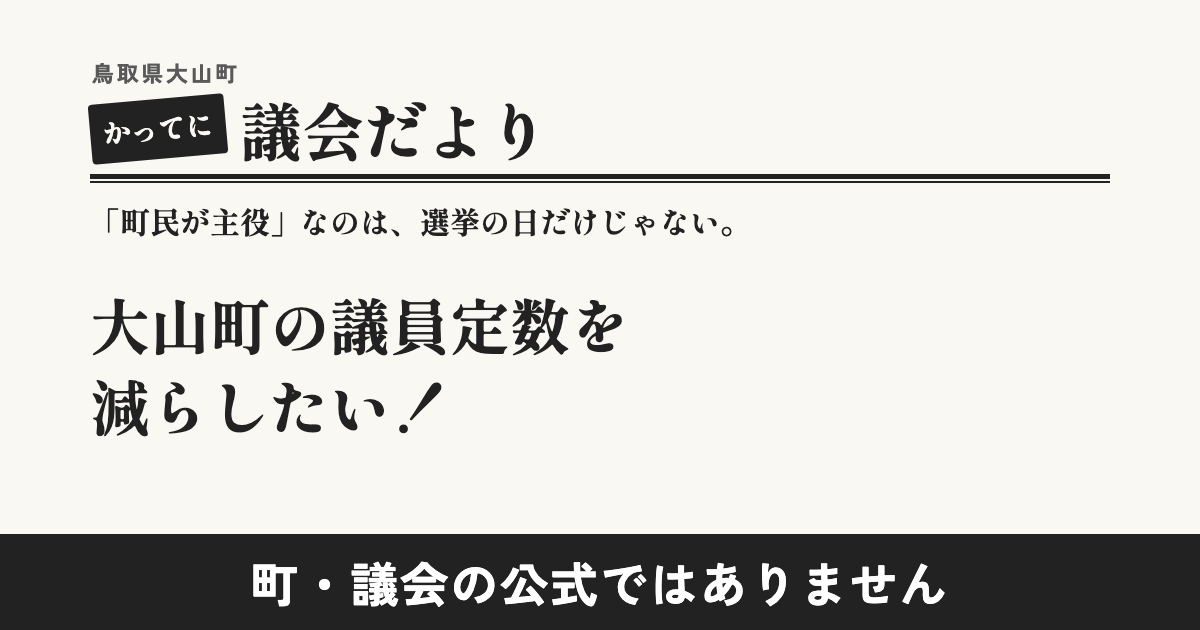
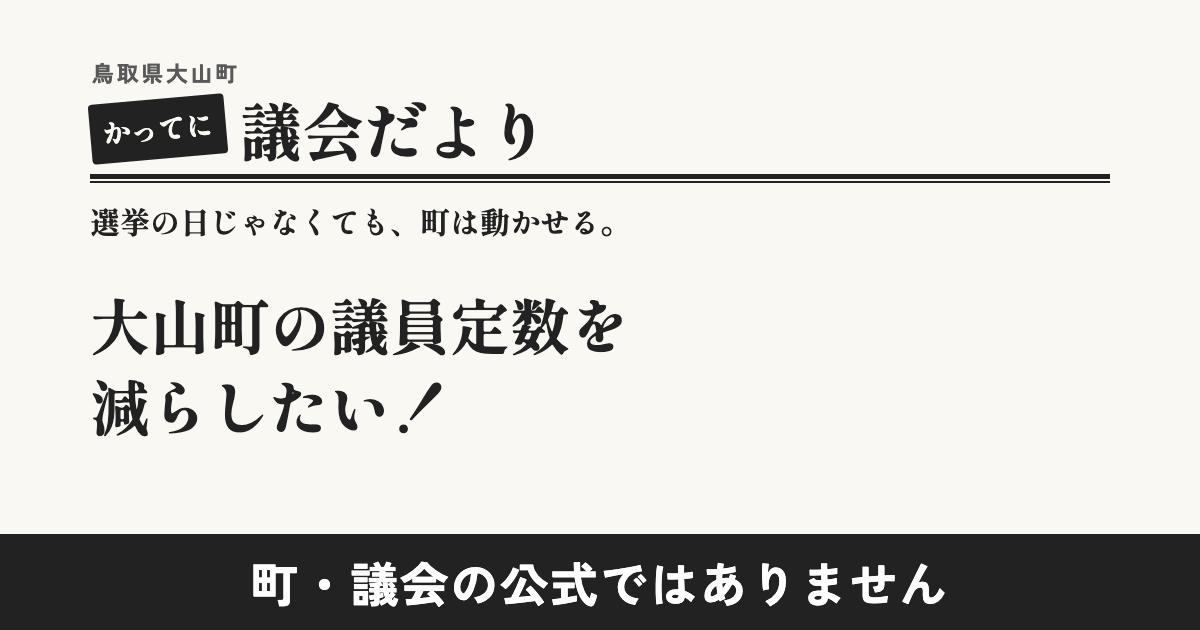
合言葉を「選挙の日じゃなくても、町は動かせる。」に変更。OGP画像も更新

Changed region(s): [[0.0617, 0.3317, 0.5858, 0.3921]]

diff --git a/src/config/site.ts b/src/config/site.ts
@@ -1,7 +1,7 @@
 // サイト全体の設定。名前とURLはここを直せば全ページに反映される
 export const SITE = {
   name: 'かってに議会だより',
-  subtitle: '「町民が主役」なのは、選挙の日だけじゃない。',
+  subtitle: '選挙の日じゃなくても、町は動かせる。',
   place: '鳥取県大山町',
   description:
     '鳥取県大山町議会の注目の議案を、採決の前に賛成・反対の両方から解説し、町民の声を集めます。大山町・大山町議会の公式サイトではありません。',
